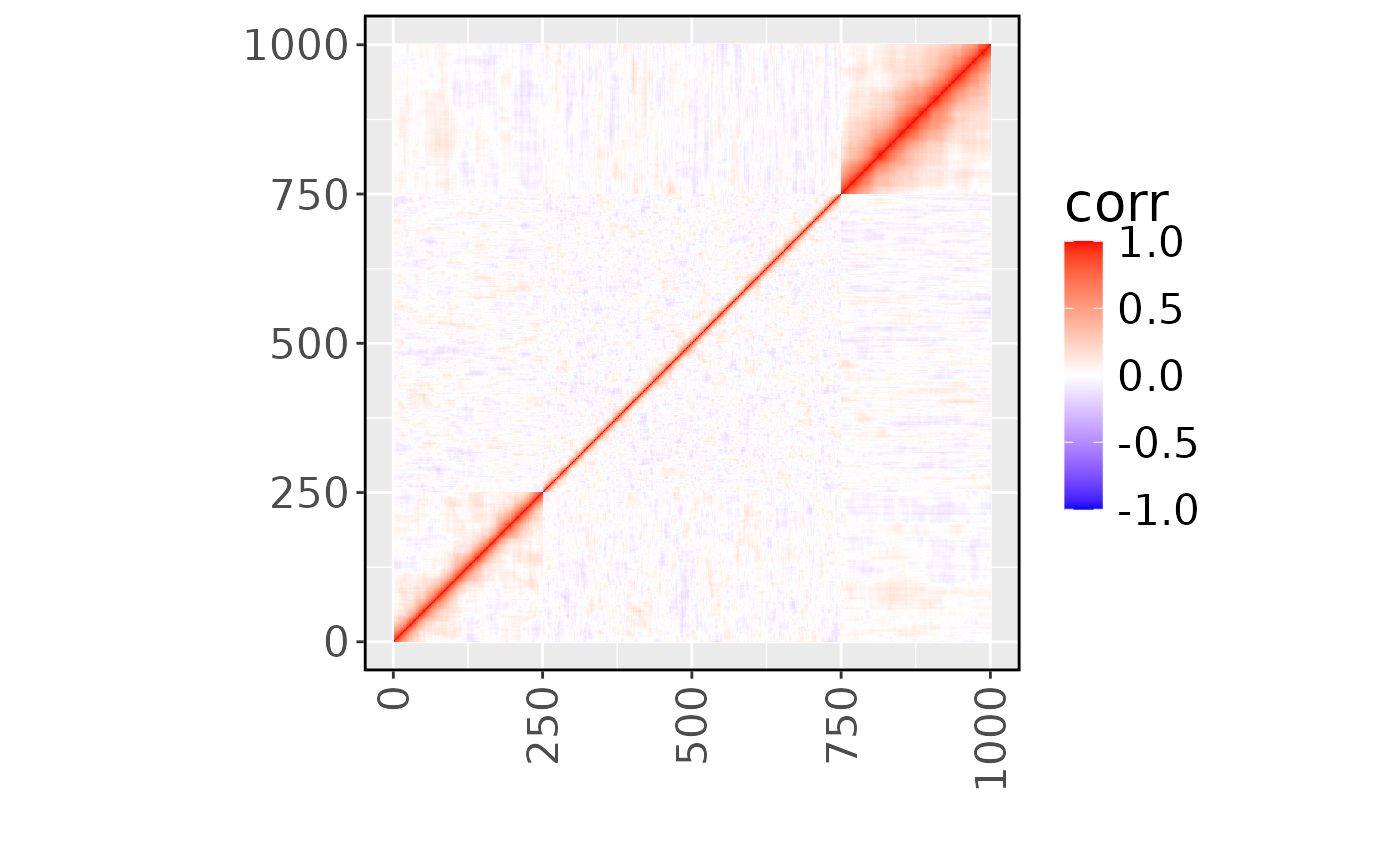
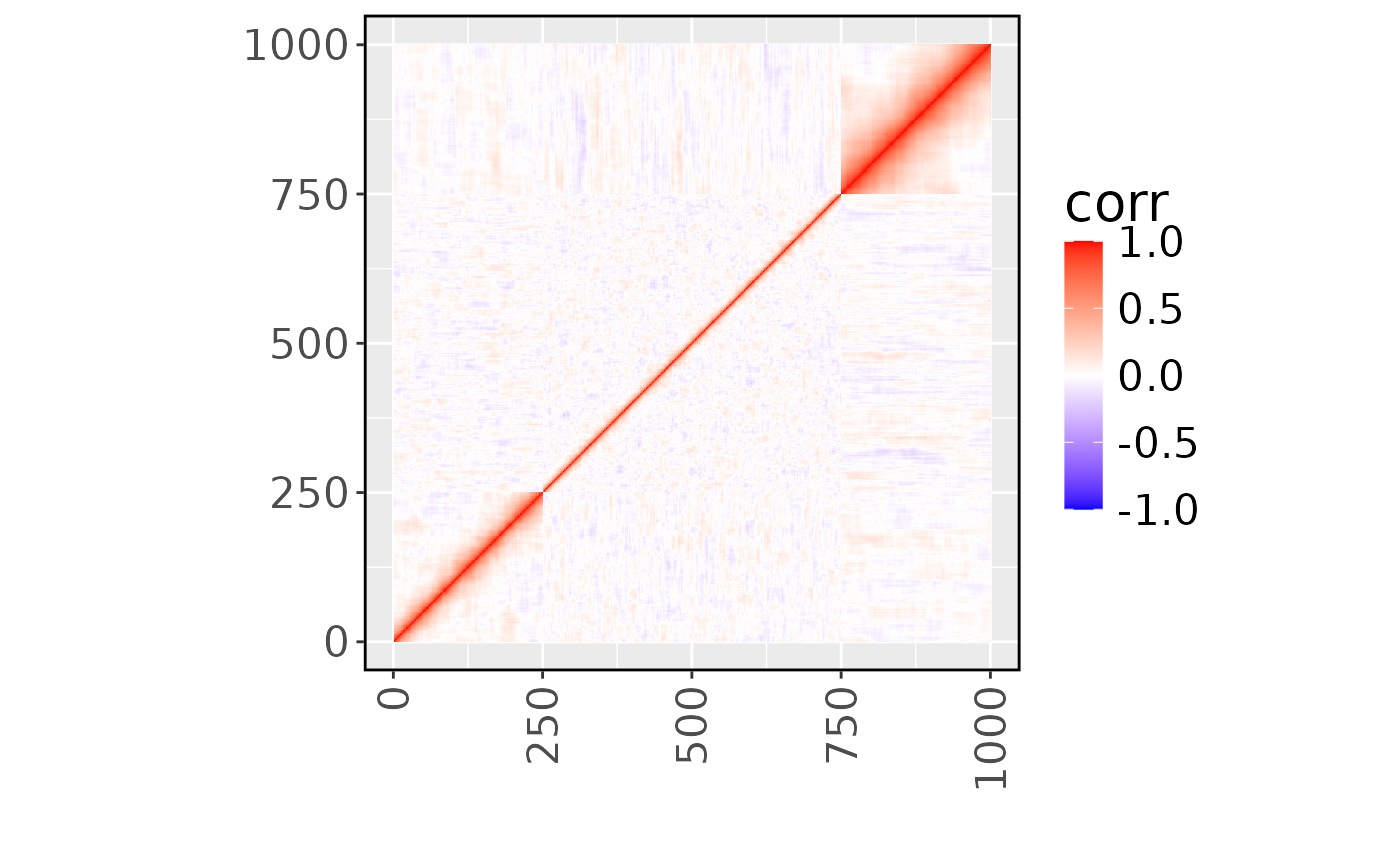
Deploying to gh-pages from @ leaffur/CASE@b27281d5c2554d44f0c38eb7db99635d66c4978b 🚀

diff --git a/articles/Introduction_to_CASE.html b/articles/Introduction_to_CASE.html
@@ -83,7 +83,8 @@ fine-mapping</h1>
 <div class="sourceCode" id="cb1"><pre class="downlit sourceCode r">
 <code class="sourceCode R"><span><span class="kw"><a href="https://rdrr.io/r/base/library.html" class="external-link">library</a></span><span class="op">(</span><span class="va"><a href="https://leaffur.github.io/CASE/" class="external-link">CASE</a></span><span class="op">)</span></span>
 <span><span class="kw"><a href="https://rdrr.io/r/base/library.html" class="external-link">library</a></span><span class="op">(</span><span class="va"><a href="https://ggplot2.tidyverse.org" class="external-link">ggplot2</a></span><span class="op">)</span></span>
-<span><span class="kw"><a href="https://rdrr.io/r/base/library.html" class="external-link">library</a></span><span class="op">(</span><span class="va"><a href="https://github.com/stephenslab/susieR" class="external-link">susieR</a></span><span class="op">)</span></span></code></pre></div>
+<span><span class="kw"><a href="https://rdrr.io/r/base/library.html" class="external-link">library</a></span><span class="op">(</span><span class="va"><a href="https://github.com/stephenslab/susieR" class="external-link">susieR</a></span><span class="op">)</span></span>
+<span><span class="fu"><a href="https://rdrr.io/r/base/Random.html" class="external-link">set.seed</a></span><span class="op">(</span><span class="fl">1000</span><span class="op">)</span></span></code></pre></div>
 <div class="sourceCode" id="cb2"><pre class="downlit sourceCode r">
 <code class="sourceCode R"><span><span class="fu"><a href="https://rdrr.io/r/utils/data.html" class="external-link">data</a></span><span class="op">(</span><span class="st">"example_data"</span><span class="op">)</span></span>
 <span><span class="va">X</span> <span class="op">=</span> <span class="va">example_data</span><span class="op">$</span><span class="va">X</span></span>
@@ -99,8 +100,8 @@ fine-mapping</h1>
 <span><span class="co">#&gt; sample size = 500 </span></span>
 <span><span class="co">#&gt;  SNP size = 1000 </span></span>
 <span><span class="co">#&gt;  Cell type number = 3</span></span></code></pre></div>
-<p>Let’s have a look at how the Linkage Disequilibrium (LD) of the
-example data looks like.</p>
+<p>Let’s have a look at the Linkage Disequilibrium (LD) of the example
+genotype.</p>
 <div class="sourceCode" id="cb3"><pre class="downlit sourceCode r">
 <code class="sourceCode R"><span><span class="va">R</span> <span class="op">=</span> <span class="fu"><a href="https://rdrr.io/r/stats/cor.html" class="external-link">cor</a></span><span class="op">(</span><span class="va">X</span><span class="op">)</span></span>
 <span></span>
@@ -147,9 +148,9 @@ example data looks like.</p>
 <span>  <span class="va">Z</span><span class="op">[</span><span class="va">i</span>, <span class="op">]</span> <span class="op">=</span> <span class="fu"><a href="https://rdrr.io/r/base/lapply.html" class="external-link">sapply</a></span><span class="op">(</span><span class="va">m1</span>, <span class="kw">function</span><span class="op">(</span><span class="va">x</span><span class="op">)</span> <span class="va">x</span><span class="op">$</span><span class="va">coefficients</span><span class="op">[</span><span class="fl">2</span>, <span class="fl">3</span><span class="op">]</span><span class="op">)</span></span>
 <span><span class="op">}</span></span>
 <span><span class="va">Z</span><span class="op">[</span><span class="fu"><a href="https://rdrr.io/r/base/c.html" class="external-link">c</a></span><span class="op">(</span><span class="va">idx1</span>, <span class="va">idx2</span><span class="op">)</span>, <span class="op">]</span> </span>
-<span><span class="co">#&gt;          [,1]     [,2]      [,3]</span></span>
-<span><span class="co">#&gt; [1,] 7.466265 1.439311 2.4618934</span></span>
-<span><span class="co">#&gt; [2,] 4.668602 2.571253 0.4926479</span></span></code></pre></div>
+<span><span class="co">#&gt;          [,1]     [,2]       [,3]</span></span>
+<span><span class="co">#&gt; [1,] 5.162539 5.451293  3.7760017</span></span>
+<span><span class="co">#&gt; [2,] 4.292018 3.878442 -0.1058495</span></span></code></pre></div>
 <p>Run SuSiE (a single-trait fine-mapping method) seperately.</p>
 <div class="sourceCode" id="cb6"><pre class="downlit sourceCode r">
 <code class="sourceCode R"><span><span class="kw">for</span> <span class="op">(</span><span class="va">c</span> <span class="kw">in</span> <span class="fl">1</span><span class="op">:</span><span class="va">C</span><span class="op">)</span><span class="op">{</span></span>
@@ -158,32 +159,36 @@ example data looks like.</p>
 <span><span class="op">}</span></span>
 <span><span class="co">#&gt; $cs</span></span>
 <span><span class="co">#&gt; $cs$L1</span></span>
-<span><span class="co">#&gt; [1]  9 10 11</span></span>
-<span><span class="co">#&gt; </span></span>
-<span><span class="co">#&gt; $cs$L2</span></span>
-<span><span class="co">#&gt;  [1] 939 940 941 942 943 944 945 946 947 948 949 950 951 952 953 954 955 956 957</span></span>
-<span><span class="co">#&gt; [20] 958 959 960 961 962 963 964 965</span></span>
+<span><span class="co">#&gt; [1]  4  6  7  8  9 10 11</span></span>
 <span><span class="co">#&gt; </span></span>
 <span><span class="co">#&gt; </span></span>
 <span><span class="co">#&gt; $purity</span></span>
 <span><span class="co">#&gt;    min.abs.corr mean.abs.corr median.abs.corr</span></span>
-<span><span class="co">#&gt; L1    0.9153209     0.9400196       0.9305205</span></span>
-<span><span class="co">#&gt; L2    0.6119001     0.8440885       0.8546488</span></span>
+<span><span class="co">#&gt; L1    0.7060233     0.8630268       0.8730057</span></span>
 <span><span class="co">#&gt; </span></span>
 <span><span class="co">#&gt; $cs_index</span></span>
-<span><span class="co">#&gt; [1] 1 2</span></span>
+<span><span class="co">#&gt; [1] 1</span></span>
 <span><span class="co">#&gt; </span></span>
 <span><span class="co">#&gt; $coverage</span></span>
-<span><span class="co">#&gt; [1] 0.9887018 0.9509368</span></span>
+<span><span class="co">#&gt; [1] 0.9604853</span></span>
 <span><span class="co">#&gt; </span></span>
 <span><span class="co">#&gt; $requested_coverage</span></span>
 <span><span class="co">#&gt; [1] 0.95</span></span>
 <span><span class="co">#&gt; </span></span>
 <span><span class="co">#&gt; $cs</span></span>
-<span><span class="co">#&gt; NULL</span></span>
+<span><span class="co">#&gt; $cs$L1</span></span>
+<span><span class="co">#&gt; [1]  8  9 10 11 12</span></span>
+<span><span class="co">#&gt; </span></span>
+<span><span class="co">#&gt; </span></span>
+<span><span class="co">#&gt; $purity</span></span>
+<span><span class="co">#&gt;    min.abs.corr mean.abs.corr median.abs.corr</span></span>
+<span><span class="co">#&gt; L1    0.8356723     0.9160276       0.9247528</span></span>
+<span><span class="co">#&gt; </span></span>
+<span><span class="co">#&gt; $cs_index</span></span>
+<span><span class="co">#&gt; [1] 1</span></span>
 <span><span class="co">#&gt; </span></span>
 <span><span class="co">#&gt; $coverage</span></span>
-<span><span class="co">#&gt; NULL</span></span>
+<span><span class="co">#&gt; [1] 0.9613424</span></span>
 <span><span class="co">#&gt; </span></span>
 <span><span class="co">#&gt; $requested_coverage</span></span>
 <span><span class="co">#&gt; [1] 0.95</span></span>
@@ -201,48 +206,53 @@ identifying the causal variants.</p>
 <div class="sourceCode" id="cb7"><pre class="downlit sourceCode r">
 <code class="sourceCode R"><span><span class="va">fit</span> <span class="op">&lt;-</span> <span class="fu"><a href="../reference/CASE.html">CASE</a></span><span class="op">(</span>Z <span class="op">=</span> <span class="va">Z</span>, R <span class="op">=</span> <span class="va">R</span>, N <span class="op">=</span> <span class="fu"><a href="https://rdrr.io/r/base/rep.html" class="external-link">rep</a></span><span class="op">(</span><span class="va">N</span>, <span class="va">C</span><span class="op">)</span><span class="op">)</span></span>
 <span><span class="co">#&gt; Start Prior fitting. </span></span>
-<span><span class="co">#&gt; Initialize with patterns:  100 010 001 111 000 </span></span>
+<span><span class="co">#&gt; Initialize with patterns:  100 110 111 010 001 000 </span></span>
 <span><span class="co">#&gt; Start Posterior Analysis. </span></span>
 <span><span class="co">#&gt; Start getting credible sets.</span></span>
 <span><span class="fu"><a href="https://rdrr.io/r/base/print.html" class="external-link">print</a></span><span class="op">(</span><span class="va">fit</span><span class="op">$</span><span class="va">sets</span><span class="op">)</span></span>
 <span><span class="co">#&gt; [[1]]</span></span>
 <span><span class="co">#&gt; [[1]]$cs</span></span>
 <span><span class="co">#&gt; [[1]]$cs[[1]]</span></span>
-<span><span class="co">#&gt; [1] 10  9 11  8</span></span>
+<span><span class="co">#&gt; [1] 10 11  9</span></span>
 <span><span class="co">#&gt; </span></span>
 <span><span class="co">#&gt; [[1]]$cs[[2]]</span></span>
-<span><span class="co">#&gt;  [1] 950 949 947 951 948 952 946 954 945 959</span></span>
+<span><span class="co">#&gt; [1] 950 951 947 949 948 945</span></span>
 <span><span class="co">#&gt; </span></span>
 <span><span class="co">#&gt; </span></span>
 <span><span class="co">#&gt; [[1]]$purity_min_cor</span></span>
-<span><span class="co">#&gt; [1] 0.8860574 0.7663646</span></span>
+<span><span class="co">#&gt; [1] 0.9314139 0.8914860</span></span>
 <span><span class="co">#&gt; </span></span>
 <span><span class="co">#&gt; [[1]]$coverage</span></span>
-<span><span class="co">#&gt; [1] 1.0000000 0.9550493</span></span>
+<span><span class="co">#&gt; [1] 0.9655172 0.9532020</span></span>
 <span><span class="co">#&gt; </span></span>
 <span><span class="co">#&gt; </span></span>
 <span><span class="co">#&gt; [[2]]</span></span>
 <span><span class="co">#&gt; [[2]]$cs</span></span>
-<span><span class="co">#&gt; list()</span></span>
+<span><span class="co">#&gt; [[2]]$cs[[1]]</span></span>
+<span><span class="co">#&gt; [1] 10 11  9</span></span>
+<span><span class="co">#&gt; </span></span>
+<span><span class="co">#&gt; [[2]]$cs[[2]]</span></span>
+<span><span class="co">#&gt; [1] 950 951 947 949 948 945</span></span>
+<span><span class="co">#&gt; </span></span>
 <span><span class="co">#&gt; </span></span>
 <span><span class="co">#&gt; [[2]]$purity_min_cor</span></span>
-<span><span class="co">#&gt; numeric(0)</span></span>
+<span><span class="co">#&gt; [1] 0.9314139 0.8914860</span></span>
 <span><span class="co">#&gt; </span></span>
 <span><span class="co">#&gt; [[2]]$coverage</span></span>
-<span><span class="co">#&gt; numeric(0)</span></span>
+<span><span class="co">#&gt; [1] 0.9655172 0.9532020</span></span>
 <span><span class="co">#&gt; </span></span>
 <span><span class="co">#&gt; </span></span>
 <span><span class="co">#&gt; [[3]]</span></span>
 <span><span class="co">#&gt; [[3]]$cs</span></span>
 <span><span class="co">#&gt; [[3]]$cs[[1]]</span></span>
-<span><span class="co">#&gt; [1] 10  9 11  8</span></span>
+<span><span class="co">#&gt; [1] 10 11  9</span></span>
 <span><span class="co">#&gt; </span></span>
 <span><span class="co">#&gt; </span></span>
 <span><span class="co">#&gt; [[3]]$purity_min_cor</span></span>
-<span><span class="co">#&gt; [1] 0.8860574</span></span>
+<span><span class="co">#&gt; [1] 0.9314139</span></span>
 <span><span class="co">#&gt; </span></span>
 <span><span class="co">#&gt; [[3]]$coverage</span></span>
-<span><span class="co">#&gt; [1] 0.9802956</span></span></code></pre></div>
+<span><span class="co">#&gt; [1] 0.9630542</span></span></code></pre></div>
 <div class="sourceCode" id="cb8"><pre class="downlit sourceCode r">
 <code class="sourceCode R"><span><span class="fu"><a href="https://rdrr.io/r/utils/sessionInfo.html" class="external-link">sessionInfo</a></span><span class="op">(</span><span class="op">)</span></span>
 <span><span class="co">#&gt; R version 4.4.2 (2024-10-31)</span></span>
